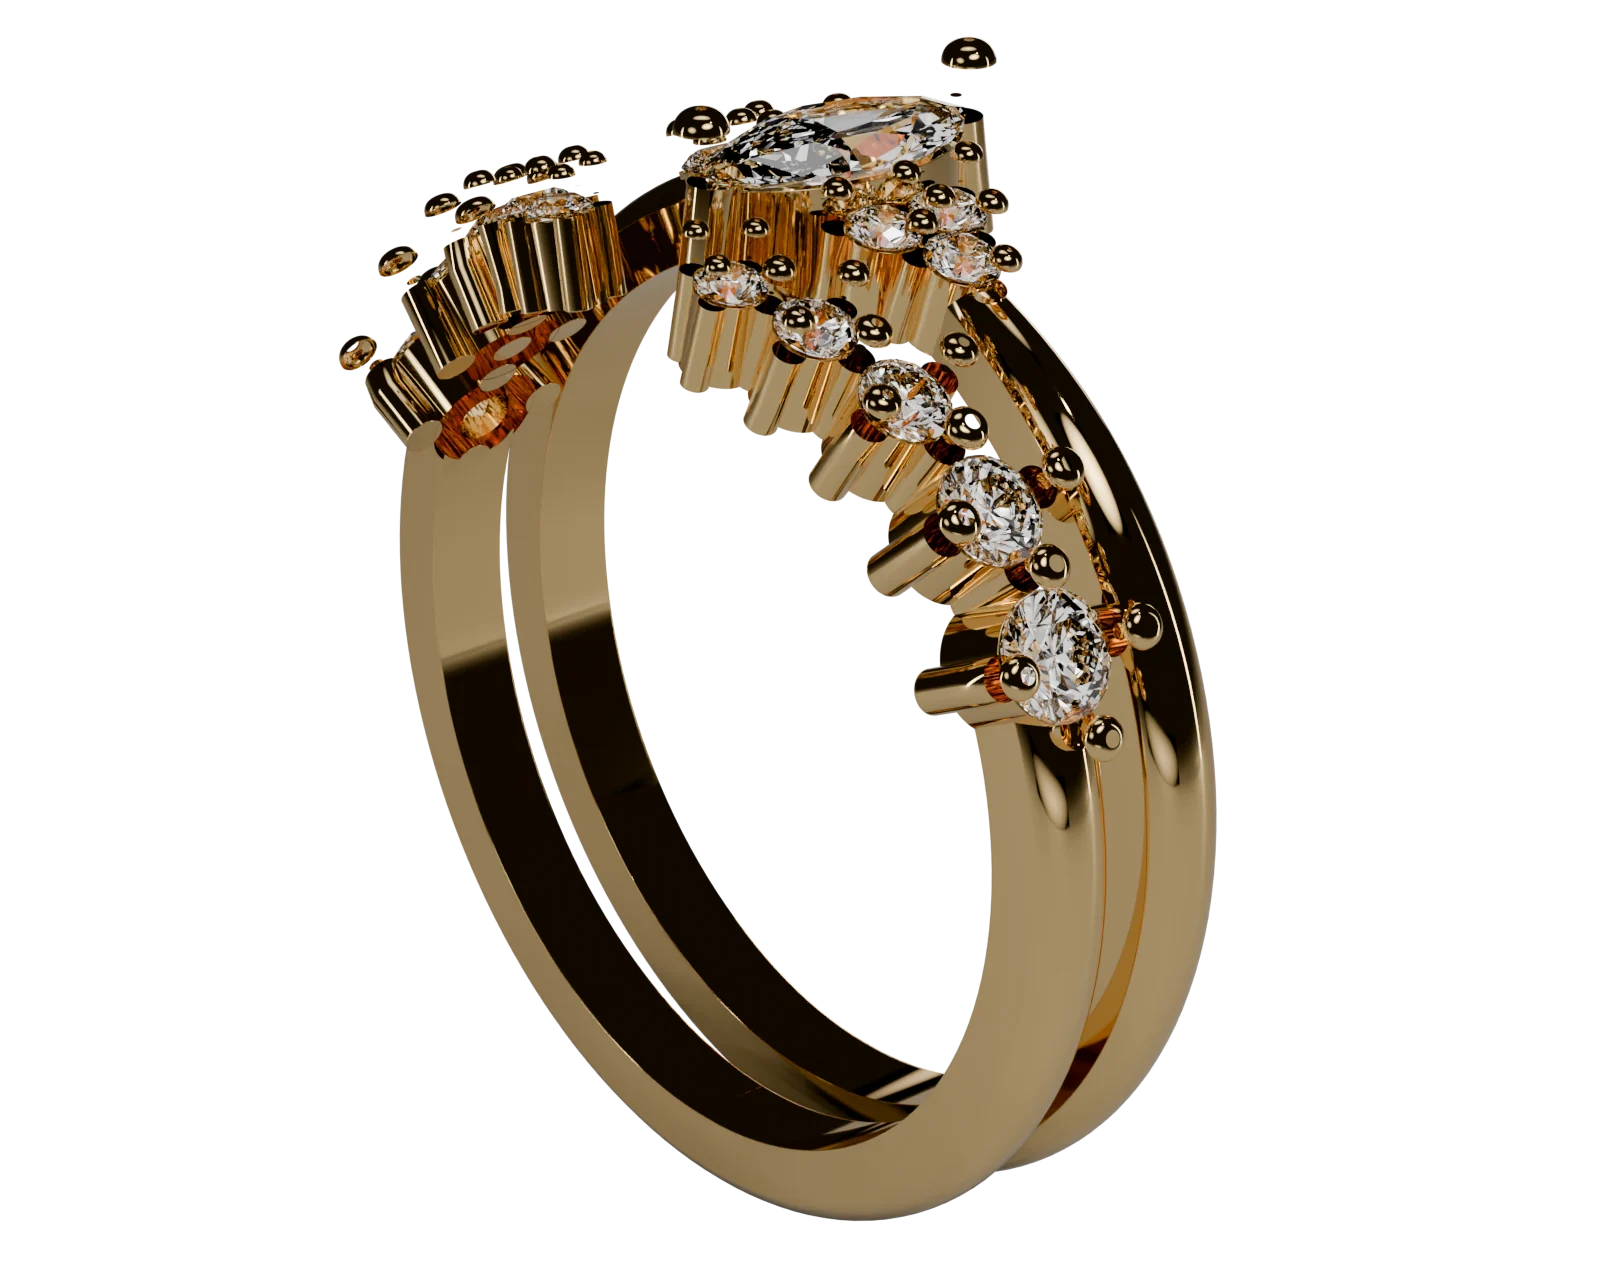
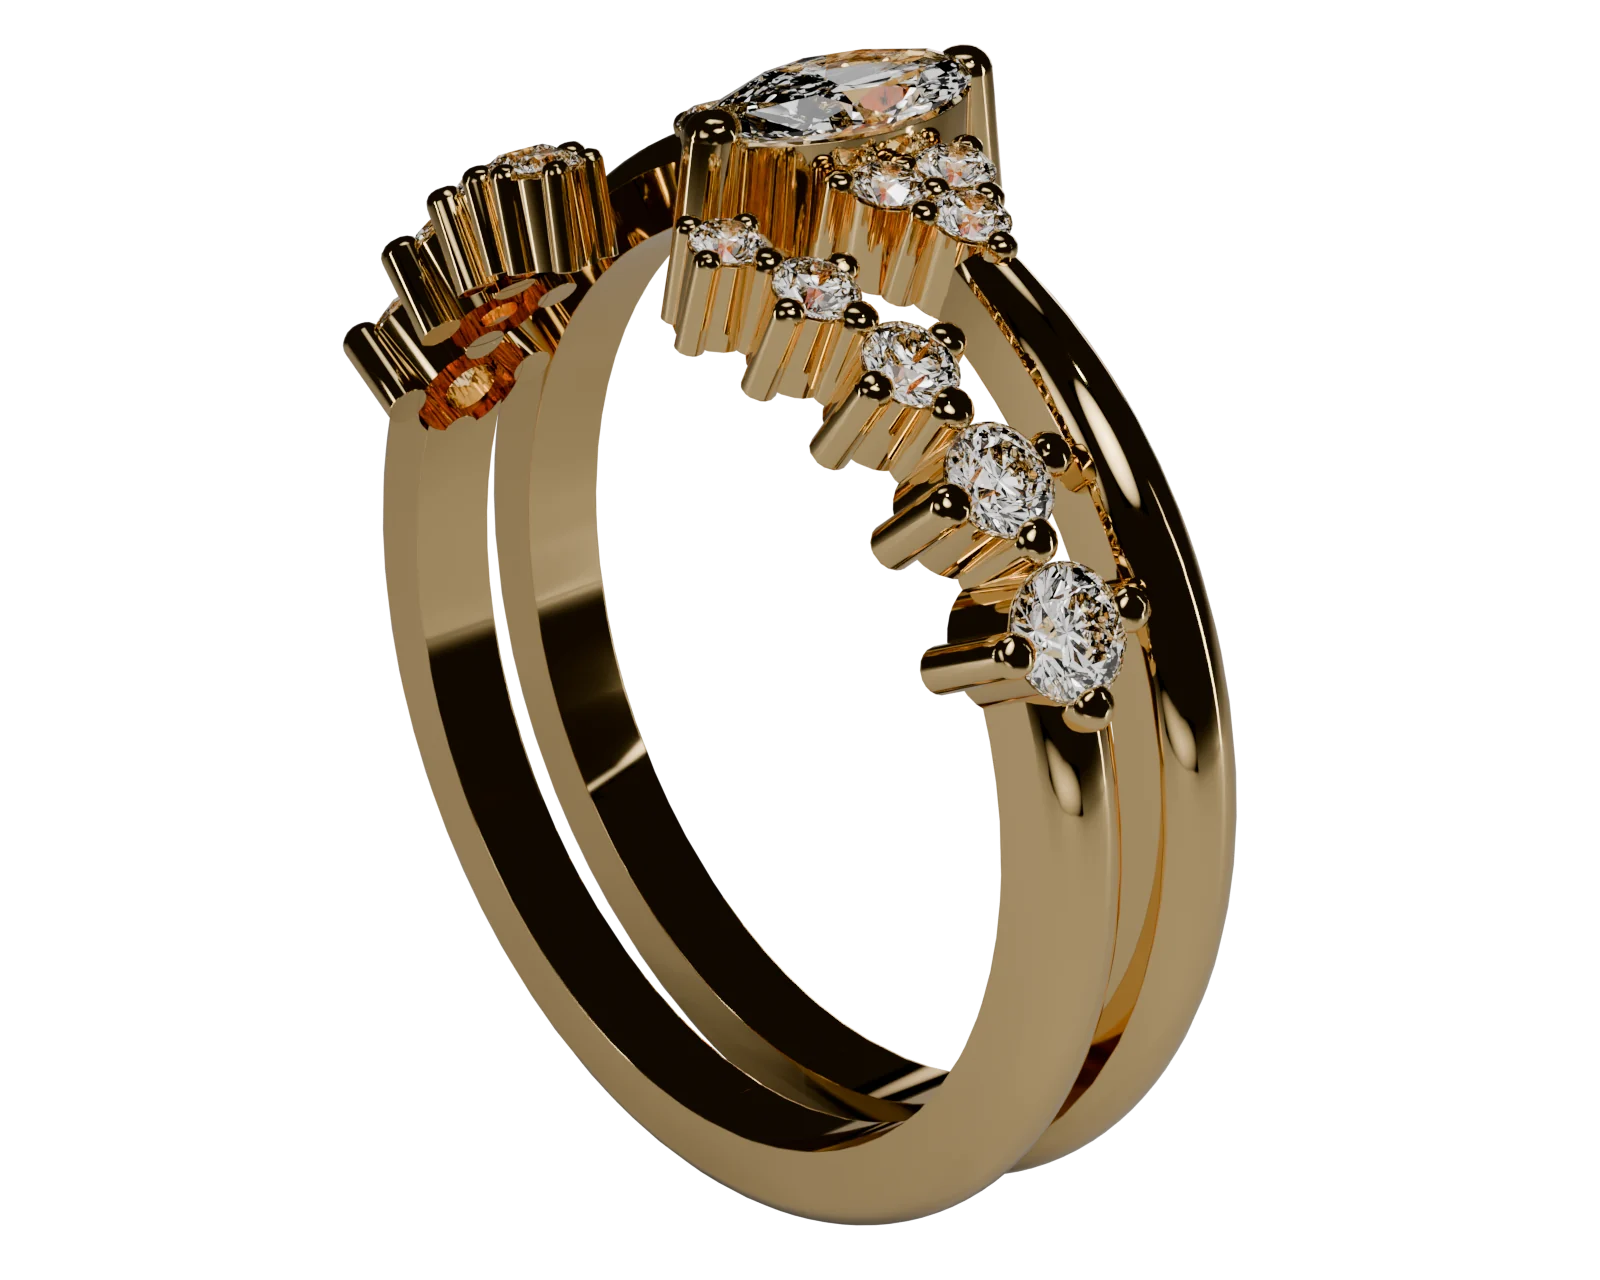
Rendus Cycles refaits depuis le modèle du configurateur (plus de perle en l'air) ; premier écran : apparition seule, sans flottement sans fin (WCAG 2.2.2)
Claude-Session: https://claude.ai/code/session_01Bd2f8RfGeKiLiov5ZFAJKF

diff --git a/src/app/[locale]/home.module.css b/src/app/[locale]/home.module.css
@@ -179,21 +179,14 @@
   height: auto;
   margin-inline: -6%;
   filter: drop-shadow(0 40px 60px rgba(0, 0, 0, 0.6));
-  animation:
-    appear 1.6s cubic-bezier(0.2, 0.7, 0.2, 1) both,
-    float 9s ease-in-out 1.6s infinite;
+  /* Apparition seule (1,6 s) : aucun mouvement sans fin, que la déclaration d'accessibilité exclut (WCAG 2.2.2). */
+  animation: appear 1.6s cubic-bezier(0.2, 0.7, 0.2, 1) both;
 }
 
 @keyframes appear {
   from {
     opacity: 0;
     transform: translateY(24px) scale(0.96);
-  }
-}
-
-@keyframes float {
-  50% {
-    transform: translateY(-10px);
   }
 }
 
